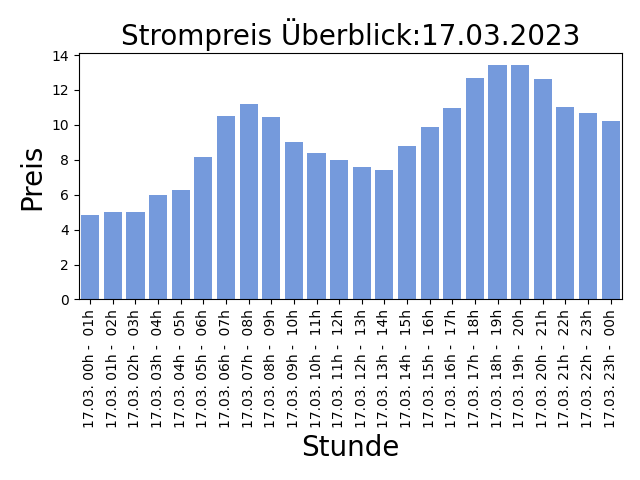
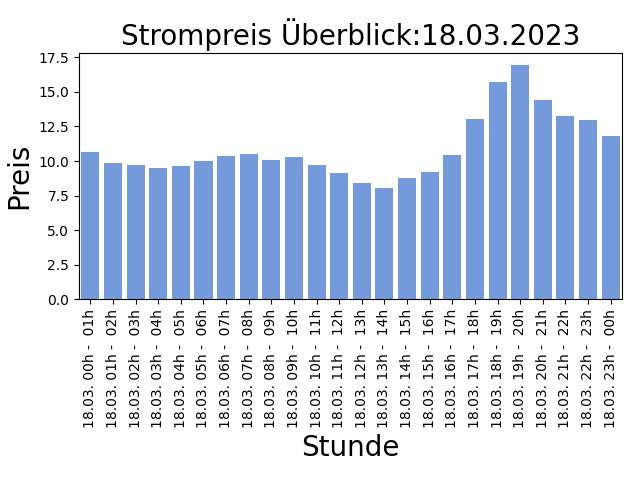
AUTOMATIC UPDATE PRICE LIST: 2023-03-17-14:30:14

diff --git a/README.md b/README.md
@@ -1,5 +1,5 @@
 
-## Strompreise für den 17.03.2023
+## Strompreise für den 18.03.2023
 
 Niedrige Preise deuten auf viel Sonnen und Windenergieerzeugung hin, ein hoher Anteil an erneuerbaren Energien bedeuted weniger CO2 Verbrauch!
 
@@ -7,31 +7,31 @@ Niedrige Preise deuten auf viel Sonnen und Windenergieerzeugung hin, ein hoher A
 
 | Stunde | Preis in Cent/kWh |
 |---|---|
-| **17.03. 00h -  01h** | **4.845000000000001** | 
-| 17.03. 01h -  02h | 4.997 | 
-| 17.03. 02h -  03h | 5.006 | 
-| 17.03. 03h -  04h | 5.993 | 
-| 17.03. 04h -  05h | 6.279 | 
-| 17.03. 05h -  06h | 8.159 | 
-| 17.03. 06h -  07h | 10.507 | 
-| 17.03. 07h -  08h | 11.217 | 
-| 17.03. 08h -  09h | 10.456 | 
-| 17.03. 09h -  10h | 9.029 | 
-| 17.03. 10h -  11h | 8.404 | 
-| 17.03. 11h -  12h | 7.995 | 
-| 17.03. 12h -  13h | 7.5760000000000005 | 
-| 17.03. 13h -  14h | 7.404999999999999 | 
-| 17.03. 14h -  15h | 8.805 | 
-| 17.03. 15h -  16h | 9.903 | 
-| 17.03. 16h -  17h | 10.954 | 
-| 17.03. 17h -  18h | 12.679 | 
-| 17.03. 18h -  19h | 13.436000000000002 | 
-| 17.03. 19h -  20h | 13.422999999999998 | 
-| 17.03. 20h -  21h | 12.635 | 
-| 17.03. 21h -  22h | 10.997 | 
-| 17.03. 22h -  23h | 10.709 | 
-| 17.03. 23h -  00h | 10.225 | 
+| 18.03. 00h -  01h | 10.635 | 
+| 18.03. 01h -  02h | 9.825 | 
+| 18.03. 02h -  03h | 9.684000000000001 | 
+| 18.03. 03h -  04h | 9.5 | 
+| 18.03. 04h -  05h | 9.618 | 
+| 18.03. 05h -  06h | 9.98 | 
+| 18.03. 06h -  07h | 10.35 | 
+| 18.03. 07h -  08h | 10.543000000000001 | 
+| 18.03. 08h -  09h | 10.074 | 
+| 18.03. 09h -  10h | 10.265 | 
+| 18.03. 10h -  11h | 9.7 | 
+| 18.03. 11h -  12h | 9.114 | 
+| 18.03. 12h -  13h | 8.406 | 
+| **18.03. 13h -  14h** | **8.042** | 
+| 18.03. 14h -  15h | 8.751999999999999 | 
+| 18.03. 15h -  16h | 9.208 | 
+| 18.03. 16h -  17h | 10.443000000000001 | 
+| 18.03. 17h -  18h | 13.074000000000002 | 
+| 18.03. 18h -  19h | 15.694999999999999 | 
+| 18.03. 19h -  20h | 16.954 | 
+| 18.03. 20h -  21h | 14.415000000000001 | 
+| 18.03. 21h -  22h | 13.291999999999998 | 
+| 18.03. 22h -  23h | 12.995 | 
+| 18.03. 23h -  00h | 11.846 | 
 
 Preise der EPEX Spot ® Strombörse (neue Preise werden täglich um 14:00 veröffentlicht für den kompletten nächsten Tag).
 
-letzte Aktualisierung:16.03.2023 14:30
+letzte Aktualisierung:17.03.2023 14:30
